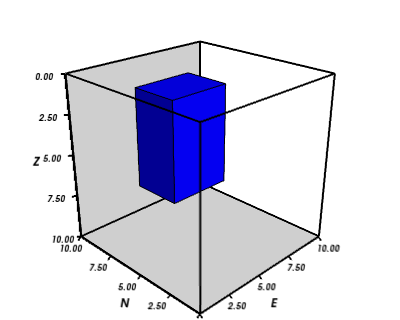
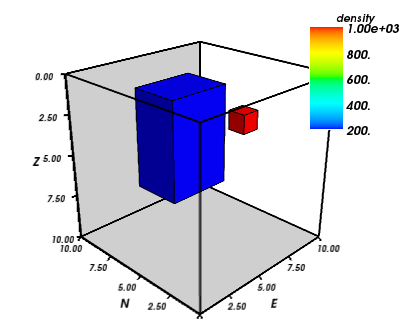
Added more samples for 3D plotting

diff --git a/papers/leonardo_uieda/leonardo_uieda.rst b/papers/leonardo_uieda/leonardo_uieda.rst
@@ -27,29 +27,33 @@ Introduction
 ------------
 
 Geophysics studies the physical processes of the Earth.
-The subarea commonly referred to as Solid Earth geophysics
-uses observations of physical phenomena
-to infer the inner structure of the planet.
-This task requires the numerical modeling of physical processes.
+Geophysicists make observations of physical phenomena
+and use them to
+infer the inner structure of the planet.
+This task requires
+the numerical modeling of physical processes.
 These numerical models
 can then be used in inverse problems
 to infer inner Earth structure
 from observations.
 Different geophysical methods
 use different kinds of observations.
-Electromagnetic (EM) methods
-use electromagnetic waves and diffusion.
-Gravity and magnetics
-use potential fields.
+Geothermal methods use
+the temperature and heat flux
+of the Earth's crust.
+Potential field methods
+use gravitational and magnetic field
+measurements.
 Seismics and seismology
-use elastic waves
+use the ground motion
+caused by elastic waves
 from active (man-made)
-and passive (earthquakes) sources.
+and passive (earthquakes) sources, respectively.
 
 The seismic method is among the most widely studied
 due to the high industry demand.
 Thus,
-a range of well established open-source softwares
+a range of well established open-source software
 have been developed for seismic processing.
 These include
 SU [Stockwell_Jr]_,
@@ -64,15 +68,15 @@ of command-line programs
 for plotting maps
 with a variety of
 different map projections.
-Another project worth mentioning is
-the Computational Infrastructure for Geodynamics (CIG)
+For geodynamic modeling
+there is the Computational Infrastructure for Geodynamics (CIG)
 (http://www.geodynamics.org),
-which has grouped various codes
-for geodynamic modeling.
+which has grouped various
+well documented software packages.
 However,
 even with this wide range
 of well maintained software projects,
-many geophysical modeling softwares
+many geophysical modeling software
 that are provided online
 still have no open-source license statement,
 have cryptic I/O files,
@@ -101,21 +105,22 @@ Fatiando a Terra
 (http://www.fatiando.org)
 aims at providing such an API
 for geophysical modeling.
-Functions in Fatiando
+Functions in the ``fatiando`` package
 use compatible data and mesh formats
 so that the output of one modeling function
 can be used as input for another.
 Furthermore,
 routines can be combined and reused
 to create new modeling algorithms.
-Fatiando also automates common tasks
+Fatiando a Terra also automates common tasks
 such as
 griding,
-map plotting with Matplotlib [Hunter]_,
-3D plotting with Mayavi [Ramachandran_Varoquaux]_,
-etc.
+map plotting with Matplotlib [Hunter]_, and
+3D plotting with Mayavi [Ramachandran_Varoquaux]_.
 Version 0.1 of Fatiando a Terra
-is focused on gravity and magnetics.
+is focused on gravity and magnetic methods
+because this is the main focus
+of the developers.
 However,
 simple "toy" problems
 for seismology and geothermics
@@ -123,8 +128,8 @@ are available
 and can be useful
 for teaching geophysics.
 
-The ``fatiando`` package
-------------------------
+Package structure
+-----------------
 
 The modules and packages
 of Fatiando a Terra
@@ -158,8 +163,8 @@ the available modules and packages are:
 * ``fatiando.inversion``:
   inverse problem solvers and regularization;
 
-Griding and plotting
----------------------
+Griding and map plotting
+------------------------
 
 Fatiando a Terra handles map data as 1D Numpy arrays,
 typically x-, y-, z-coordinates and an extra array with the corresponding data.
@@ -206,6 +211,7 @@ some irregularly sampled data
     Fatiando a Terra wrapper for the Matplotlib ``contourf``
     function.
 
+
 Map projections
 are handled by
 the Matplotlib Basemap toolkit
@@ -232,9 +238,33 @@ of this toolkit (Figure 2):
     Example of map plotting with the Robinson projection using the Matplotlib
     Basemap toolkit.
 
+Meshes and 3D plotting
+----------------------
+
+The representation of
+2D and 3D geometric elements
+is handled by the classes in
+the ``fatiando.mesher`` module.
+Geometric elements in Fatiando a Terra
+can be asigned physical property values,
+like density, magnetization, seismic wave velocity,
+impedance, etc.
+This is done through a ``props`` dictionary
+whose keys are the name of the physical property
+and values are the corresponding values:
+
+.. code-block:: python
+
+    from fatiando import mesher
+    model = [
+        mesher.Prism(5, 8, 3, 7, 1, 7,
+            props={'density':200}),
+        mesher.Prism(1, 2, 4, 5, 1, 2,
+            props={'density':1000})]
+
 The ``fatiando.vis.myv`` module
 contains functions
-for 3D plotting
+to automate 3D plotting
 using Mayavi [Ramachandran_Varoquaux]_.
 These functions create TVTK representations
 of ``fatiando.mesher`` objects
@@ -246,18 +276,17 @@ and rotates it so that
 the z-axis points down,
 as is standard in geophysics.
 The following example
-shows how to create and plot
-a 3D right rectangular prism model
+shows how to plot the
+3D right rectangular prism model
+that we created previously
 (Figure 3):
 
 .. code-block:: python
 
-    from fatiando import mesher
     from fatiando.vis import myv
-    model = [mesher.Prism(5, 8, 3, 7, 1, 7)]
     bounds = [0, 10, 0, 10, 0, 10]
     myv.figure()
-    myv.prisms(model)
+    myv.prisms(model, 'density')
     myv.axes(myv.outline(bounds))
     myv.wall_bottom(bounds)
     myv.wall_north(bounds)
@@ -268,6 +297,10 @@ a 3D right rectangular prism model
 
     Example of generating a right rectangular prism model and visualizing it
     in Mayavi.
+
+
+**ADD EXAMPLE OF PRISMMESH, SQUAREMESH FROM IMAGE**
+
 
 Forward modeling
 ----------------
@@ -394,7 +427,7 @@ and calculate its gravity anomaly
 .. figure:: forward_modeling_polyprism_drawing.png
     :align: center
 
-    Screenshot of interactively drawing the contour of a 3D polygonal prism,
+    Screen-shot of interactively drawing the contour of a 3D polygonal prism,
     as view from above.
 
 .. figure:: forward_modeling_polyprism.png
